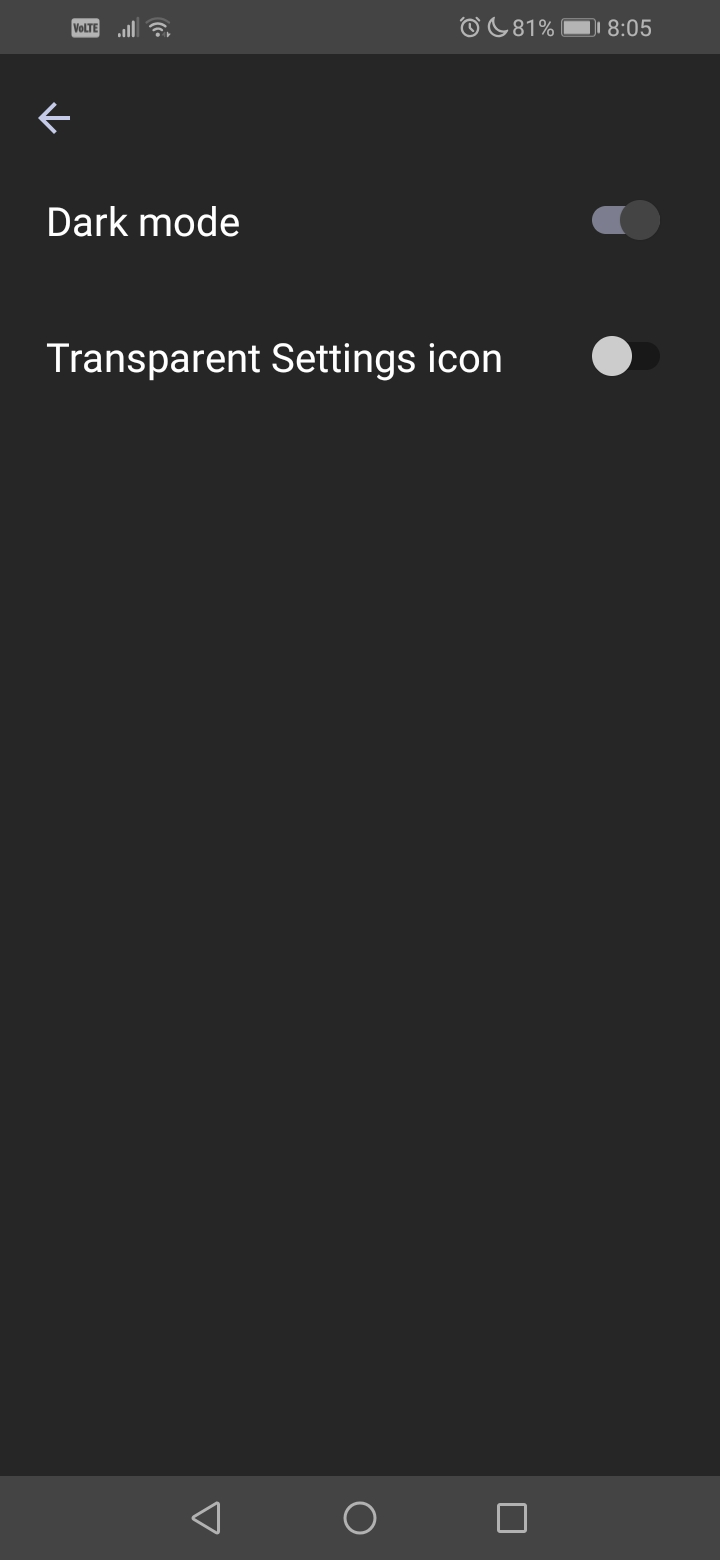
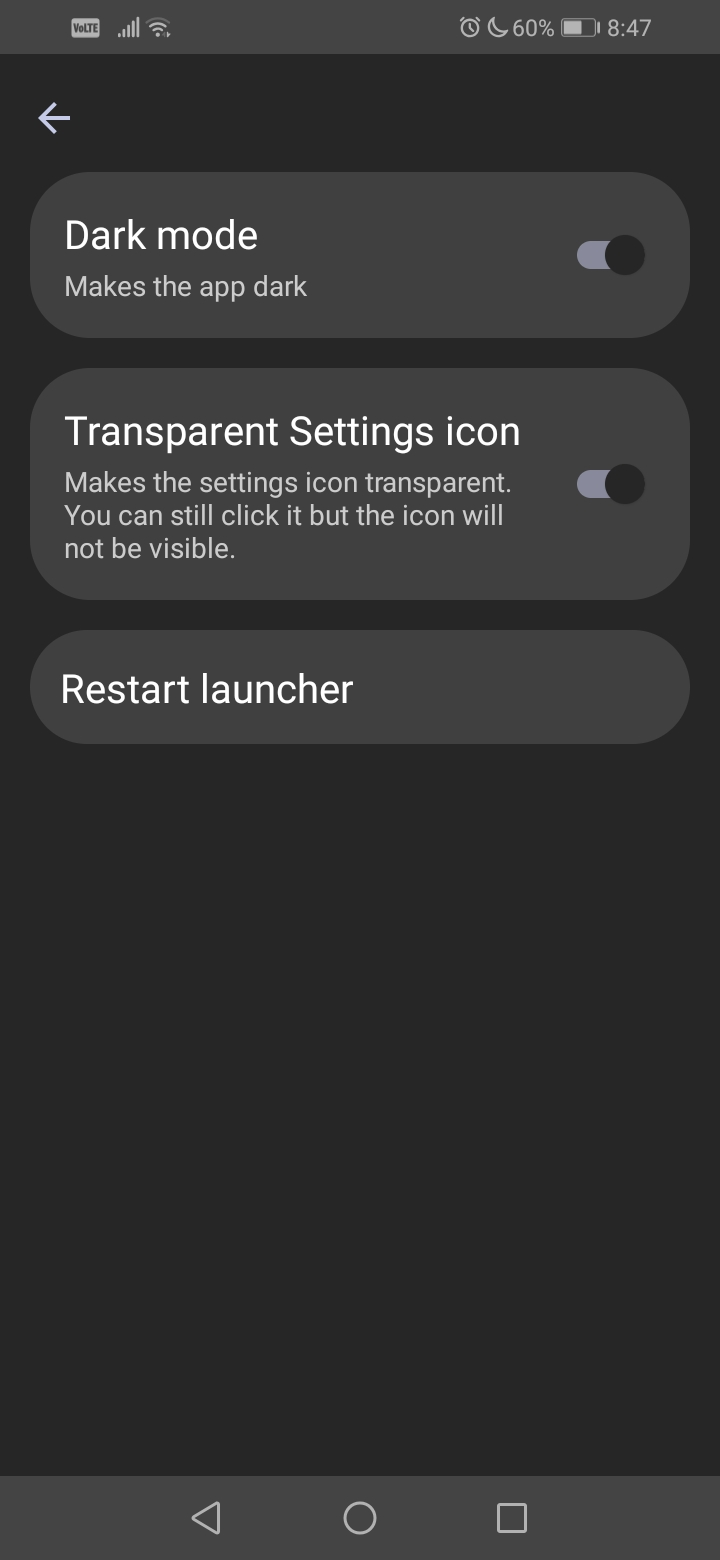
Add restart launcher button & better settings screen

diff --git a/app/src/main/java/com/ahmetardakavakci/launchimo/view/SettingsScreen.kt b/app/src/main/java/com/ahmetardakavakci/launchimo/view/SettingsScreen.kt
@@ -1,0 +1,190 @@
+package com.ahmetardakavakci.launchimo
+
+import android.app.Activity
+import androidx.compose.foundation.background
+import androidx.compose.foundation.clickable
+import androidx.compose.foundation.layout.*
+import androidx.compose.material.*
+import androidx.compose.material.icons.Icons
+import androidx.compose.material.icons.filled.ArrowBack
+import androidx.compose.runtime.Composable
+import androidx.compose.runtime.MutableState
+import androidx.compose.runtime.mutableStateOf
+import androidx.compose.runtime.remember
+import androidx.compose.ui.Alignment
+import androidx.compose.ui.Modifier
+import androidx.compose.ui.draw.clip
+import androidx.compose.ui.graphics.Color
+import androidx.compose.ui.platform.LocalContext
+import androidx.compose.ui.tooling.preview.Preview
+import androidx.compose.ui.unit.dp
+import androidx.compose.ui.unit.sp
+import androidx.navigation.NavHostController
+import androidx.navigation.compose.rememberNavController
+import com.ahmetardakavakci.launchimo.ui.theme.LaunchimoTheme
+import com.ahmetardakavakci.launchimo.view.*
+
+var thumbColor: Color = Color(0xFF2C2C2C)
+var uncheckedThumbColor: Color = Color(0xFF2C2C2C)
+var settingsBackground: Color = Color(0xFF262626)
+var descTextColor: Color = Color.LightGray
+
+@Composable
+fun SettingsScreen(navController: NavHostController) {
+
+    // Switch mutables
+    val darkMode = remember { mutableStateOf(sharedPreferences.getBoolean("darkMode", true)) }
+    val hideSettings = remember { mutableStateOf(sharedPreferences.getBoolean("hideSettings", false)) }
+
+
+    // Context
+    val activity = LocalContext.current as Activity
+    val intent = activity.intent
+
+    checkDarkMode()
+
+    if(darkMode.value) {
+        w.navigationBarColor = android.graphics.Color.DKGRAY
+        w.statusBarColor = android.graphics.Color.DKGRAY
+        settingsBackground = Color(0xFF262626)
+        thumbColor = Color(0xFF262626)
+        uncheckedThumbColor = Color.LightGray
+        descTextColor = Color.LightGray
+    } else {
+        w.navigationBarColor = android.graphics.Color.LTGRAY
+        w.statusBarColor = android.graphics.Color.LTGRAY
+        settingsBackground = Color(0xFFFFFFFF)
+        thumbColor = Color.LightGray
+        uncheckedThumbColor = Color.DarkGray
+        descTextColor = Color.DarkGray
+    }
+
+    Surface(
+        modifier = Modifier.fillMaxSize(),
+        color = settingsBackground,
+    ) {
+        Column {
+
+            Box(
+               modifier = Modifier
+                   .background(Color.Transparent)
+                   .clickable {
+                       navController.navigate("main")
+                   }
+            ) {
+                Icon(
+                    Icons.Default.ArrowBack,
+                    contentDescription = "",
+                    modifier = Modifier
+                        .padding(start = 15.dp, end = 15.dp, top = 20.dp, bottom = 15.dp)
+                        .size(24.dp),
+                    tint = accentColor
+                )
+            }
+
+            SettingsSwitch("Dark mode","Makes the app dark", "darkMode", darkMode, navController)
+            SettingsSwitch("Transparent Settings icon", "Makes the settings icon transparent. You can still click it but the icon will not be visible.", "hideSettings", hideSettings, navController)
+            SettingsText(text = "Restart launcher") {
+                activity.finish()
+                activity.startActivity(intent)
+            }
+
+        }
+    }
+}
+
+@Composable
+fun SettingsText(text: String, textClicked: () -> Unit) {
+    Box(
+        modifier = Modifier
+            .fillMaxWidth()
+            .padding(PaddingValues(
+                start = 15.dp,
+                end = 15.dp,
+                bottom = 15.dp)
+            )
+            .clip(rounded)
+            .background(colorItemBackground)
+    ) {
+        Text(
+            modifier = Modifier
+                .clickable { textClicked() }
+                .fillMaxWidth()
+                .padding(start = 15.dp, top = 15.dp, bottom = 15.dp)
+            ,text = text,
+
+            color = textColor,
+            fontSize = 20.sp
+        )
+    }
+}
+
+@Composable
+fun SettingsSwitch(text: String, descText: String, sharedKey: String, checkedState: MutableState<Boolean>, navController: NavHostController) {
+    Box(Modifier.padding(PaddingValues(start = 15.dp, end = 15.dp, bottom = 15.dp))) {
+        Row(
+            modifier = Modifier
+                .clip(rounded)
+                .background(colorItemBackground)
+            ,horizontalArrangement = Arrangement.Center,
+            verticalAlignment = Alignment.CenterVertically
+        ) {
+
+            Column(
+                modifier = Modifier
+                    .weight(7.8f)
+                    .fillMaxWidth()
+                    .padding(PaddingValues(start = 17.dp, top = 17.dp, bottom = 17.dp))
+            ) {
+                Text(
+                    text = text,
+                    color = textColor,
+                    fontSize = 20.sp
+                )
+                Spacer(modifier = Modifier.height(3.dp))
+                Text(
+                    text = descText,
+                    color = descTextColor,
+                    fontSize = 14.sp
+                )
+            }
+
+            Switch(
+                modifier = Modifier
+                    .weight(2.2f)
+                    .fillMaxWidth()
+                    .padding(end = 7.dp)
+                ,checked = checkedState.value,
+                colors = SwitchDefaults.colors(
+                    checkedThumbColor = thumbColor,
+                    uncheckedThumbColor = uncheckedThumbColor,
+                    checkedTrackColor = accentColor
+                ),
+                onCheckedChange = {
+                    checkedState.value = it
+                    editor.putBoolean(sharedKey, it)
+                    editor.commit()
+                    if (text == "Dark mode"){
+                        navController.navigate("main")
+                        navController.navigate("settings")
+                    }
+                }
+            )
+
+        }
+    }
+}
+
+@Preview(showBackground = true)
+@Composable
+fun SettingsPreview() {
+    LaunchimoTheme {
+        Column() {
+            SettingsSwitch("Dark mode", "Lorem ipsum dolor sit amet aşsldfjşaslfjdaşlsfdaşsldfsaflşasşfafdşkasfdşlasdfljkafadaşsldkfjaşksdfaşsdfaşsldkfjasşlfjasfdklasfdaslkdfjaşldfkjaskfdladfklasdfjasklşdfjasfdk", "darkMode", remember { mutableStateOf(true) }, navController = rememberNavController())
+            SettingsSwitch("Dark mode", "Lorem ipsum dolor sit amet aşsldfjşaslfjdaşlsfdaşsldfsaflşasşfafdşkasfdşlasdfljkafadaşsldkfjaşksdfaşsdf", "darkMode", remember { mutableStateOf(true) }, navController = rememberNavController())
+            SettingsText(text = "Hey") {
+
+            }
+        }
+    }
+}

diff --git a/app/src/main/java/com/ahmetardakavakci/launchimo/view/MainActivity.kt b/app/src/main/java/com/ahmetardakavakci/launchimo/view/MainActivity.kt
@@ -1,8 +1,6 @@
-package com.ahmetardakavakci.launchimo
+package com.ahmetardakavakci.launchimo.view
 
-import android.content.Context
-import android.content.Intent
-import android.content.SharedPreferences
+import android.content.*
 import android.content.pm.PackageManager
 import android.content.pm.ResolveInfo
 import android.graphics.drawable.Drawable
@@ -37,12 +35,16 @@ import androidx.navigation.NavHostController
 import androidx.navigation.compose.NavHost
 import androidx.navigation.compose.composable
 import androidx.navigation.compose.rememberNavController
+import com.ahmetardakavakci.launchimo.R
+import com.ahmetardakavakci.launchimo.SettingsScreen
+import com.ahmetardakavakci.launchimo.model.App
 import com.ahmetardakavakci.launchimo.ui.theme.LaunchimoTheme
 import com.google.accompanist.drawablepainter.rememberDrawablePainter
 import com.google.accompanist.insets.LocalWindowInsets
 import com.google.accompanist.insets.rememberInsetsPaddingValues
 import java.util.*
 
+// Package manager
 private lateinit var pm: PackageManager
 
 // Lists
@@ -121,7 +123,6 @@ class MainActivity : ComponentActivity() {
             }
         }
     }
-
 }
 
 
@@ -441,7 +442,7 @@ fun MainPreview() {
         AppLine(
             context = LocalContext.current,
             label = "App name",
-            icon = ContextCompat.getDrawable(LocalContext.current,R.drawable.ic_launcher_foreground)!!,
+            icon = ContextCompat.getDrawable(LocalContext.current, R.drawable.ic_launcher_foreground)!!,
             intent = Intent(),
             pkgname = "hello.hello.hello"
         )

diff --git a/app/src/main/java/com/ahmetardakavakci/launchimo/model/App.kt b/app/src/main/java/com/ahmetardakavakci/launchimo/model/App.kt
@@ -1,4 +1,4 @@
-package com.ahmetardakavakci.launchimo
+package com.ahmetardakavakci.launchimo.model
 
 import android.content.Intent
 import android.graphics.drawable.Drawable

diff --git a/TODO.md b/TODO.md
@@ -1,7 +1,7 @@
 # To-do
 - [ ] Refresh app list after an app is installed 
-- [ ] Use coroutines for creating a list
-- [ ] Fix: Switches other then Dark Mode switch doesn't use current mode colors at first
+- [x] *(Didn't do it but I guess it's not needed?)* Use coroutines for creating a list
+- [x] Fix: Switches other then Dark Mode switch doesn't use current mode colors at first
 - [x] White background on the settings screen initially
 - [x] Add long click options menu to apps
 - [x] Fix: Layout doesn't resize itself for the keyboard at first (Solved thanks to [this person]( https://issuetracker.google.com/issues/192043120#comment100))
